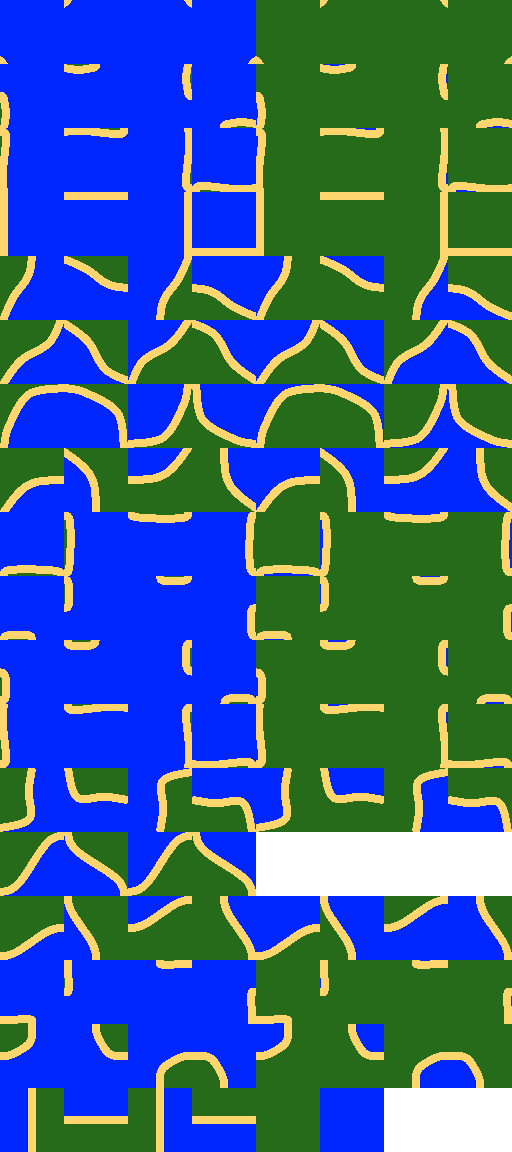
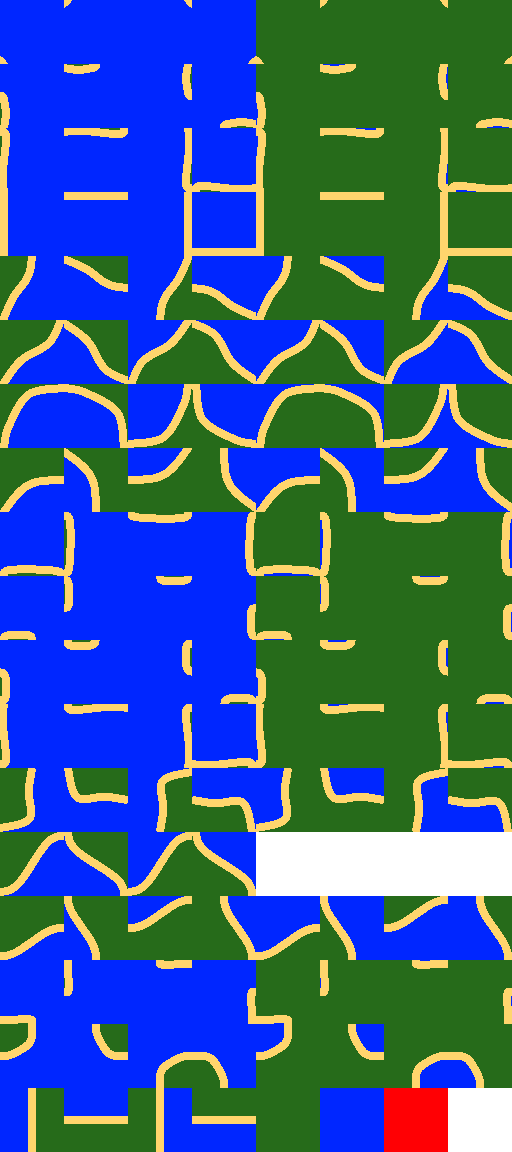
Fixed an issue with the LevelBuilder processing the tiles in the wrong order

Changed region(s): [[0.75, 0.9375, 0.875, 1.0]]

diff --git a/LevelBuilder/BuildMap.cs b/LevelBuilder/BuildMap.cs
@@ -97,7 +97,7 @@ namespace LevelBuilder
                     _backgroundWorker.ReportProgress(1, "Generating Tile: " + gmapTilesProcessed + " of " + gmapTilesHeight*gmapTilesWidth );
                         
                     Exception ex;
-                    WindowsFormsImage tile = GMaps.Instance.GetImageFrom(type, new GPoint(gmapStartTile.X + x, gmapStartTile.Y - y), zoom, out ex) as WindowsFormsImage;
+                    WindowsFormsImage tile = GMaps.Instance.GetImageFrom(type, new GPoint(gmapStartTile.X + x, gmapStartTile.Y + y), zoom, out ex) as WindowsFormsImage;
 
                     if (ex != null)
                     {
